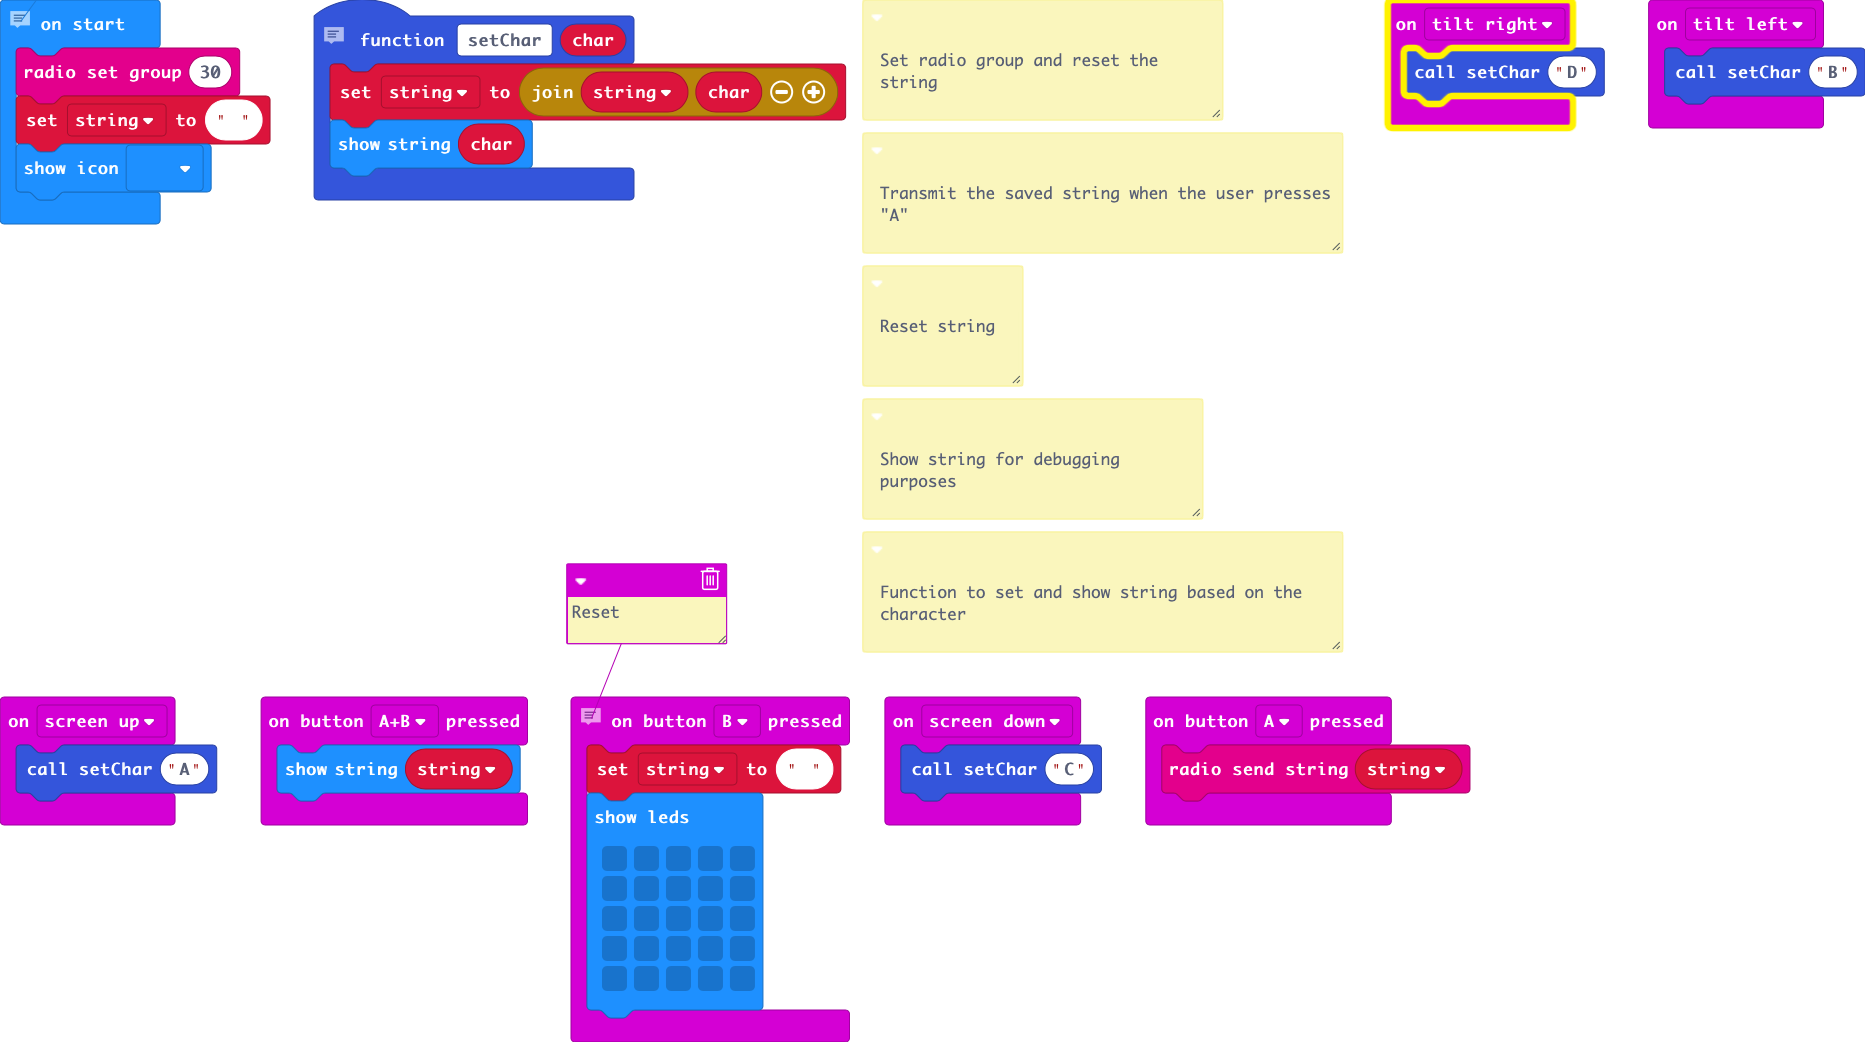
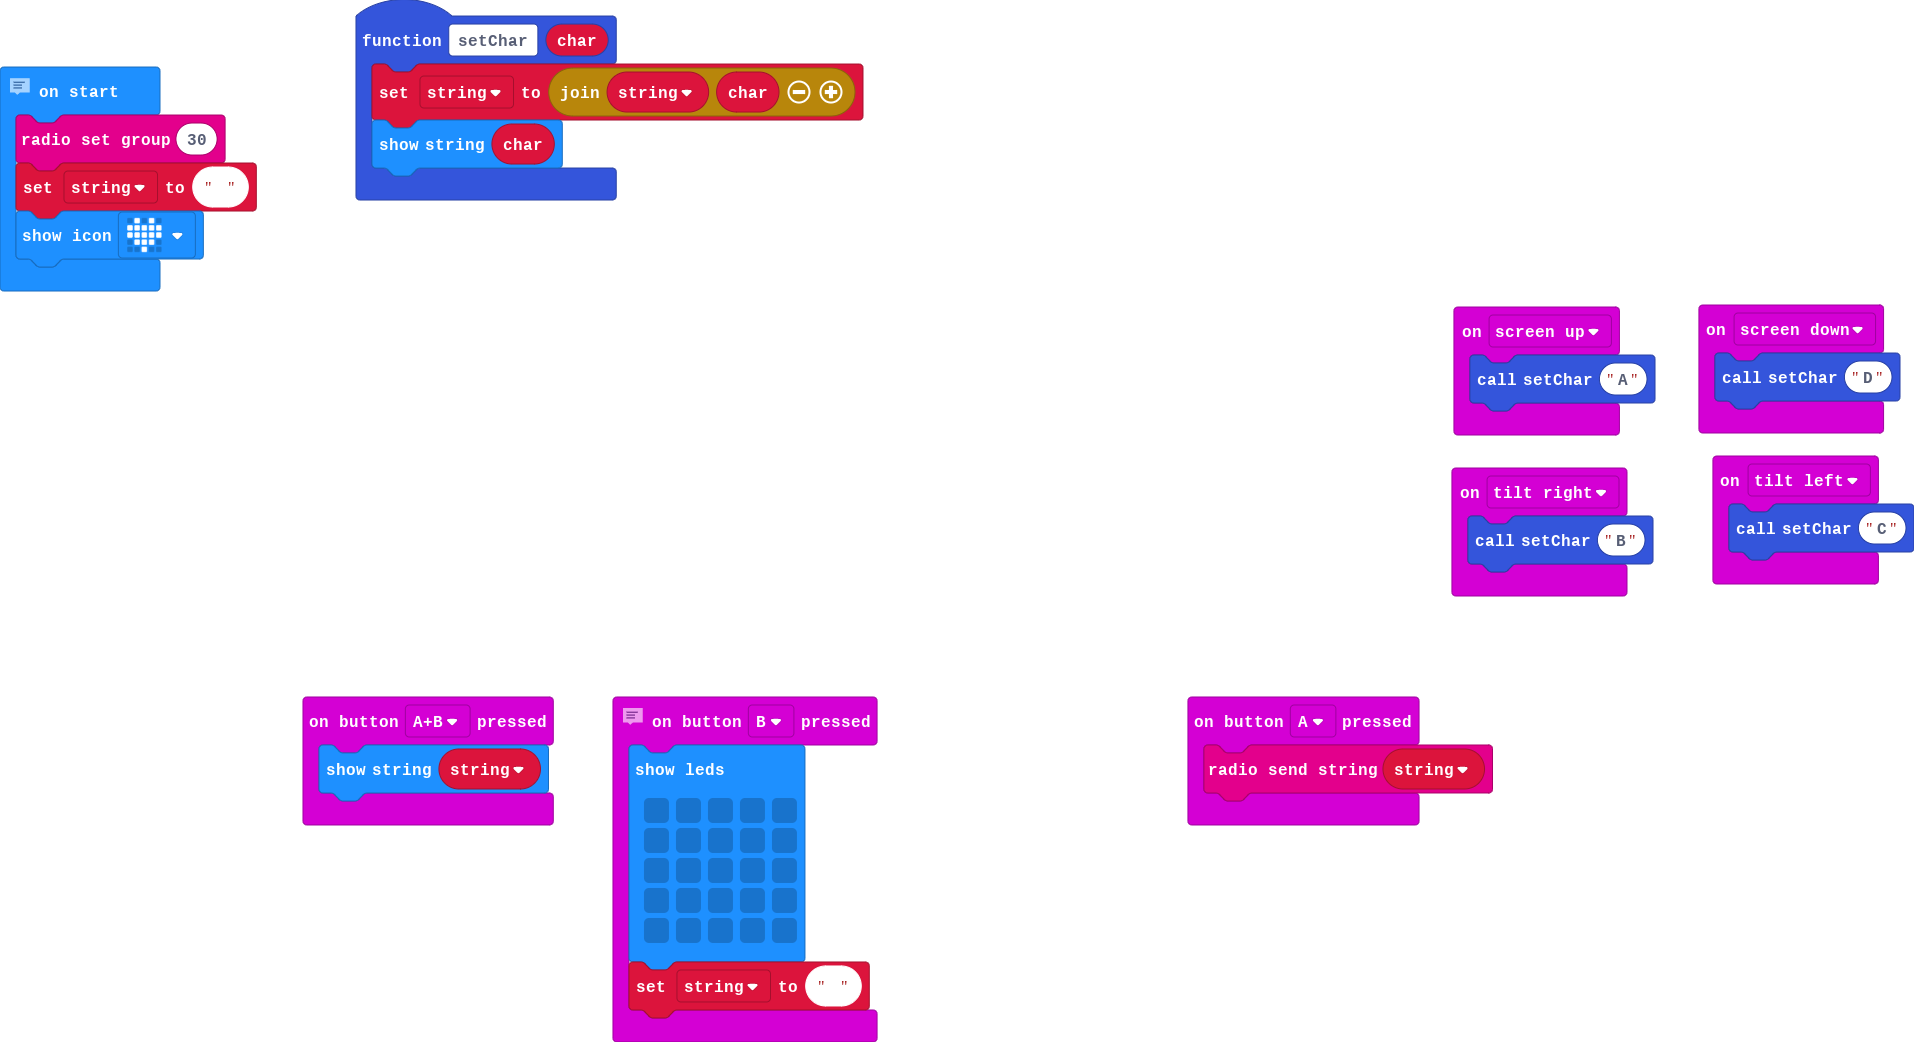
changed movements

Changed region(s): [[0.0, 0.0, 1.0, 1.0], [0.311, 0.1536, 0.3421, 0.215]]

diff --git a/main.ts b/main.ts
@@ -1,40 +1,12 @@
-/**
- * Reset string
- */
-/**
- * Show string for debugging purposes
- */
-/**
- * Function to set and show string based on the character
- */
-/**
- * Set radio group and reset the string
- */
-/**
- * Transmit the saved string when the user presses "A"
- */
-// Basic Movements to send different characters.
-//
-//
-// screen up -> "A"
-//
-//
-// tilt left -> "B"
-//
-//
-// screen down -> "C"
-//
-//
-// tilt right -> "D"
 function setChar (char: string) {
     string = "" + string + char
     basic.showString(char)
 }
 input.onGesture(Gesture.TiltRight, function () {
-    setChar("D")
+    setChar("B")
 })
 input.onGesture(Gesture.TiltLeft, function () {
-    setChar("B")
+    setChar("C")
 })
 input.onGesture(Gesture.ScreenUp, function () {
     setChar("A")
@@ -44,7 +16,6 @@ input.onButtonPressed(Button.AB, function () {
 })
 // Reset
 input.onButtonPressed(Button.B, function () {
-    string = ""
     basic.showLeds(`
         . . . . .
         . . . . .
@@ -52,9 +23,10 @@ input.onButtonPressed(Button.B, function () {
         . . . . .
         . . . . .
         `)
+    string = ""
 })
 input.onGesture(Gesture.ScreenDown, function () {
-    setChar("C")
+    setChar("D")
 })
 input.onButtonPressed(Button.A, function () {
     radio.sendString(string)
